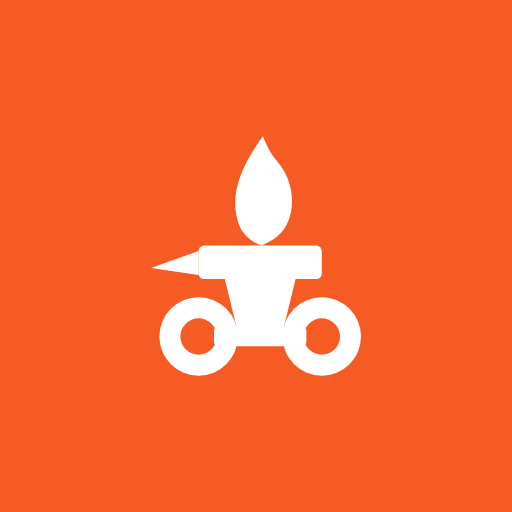
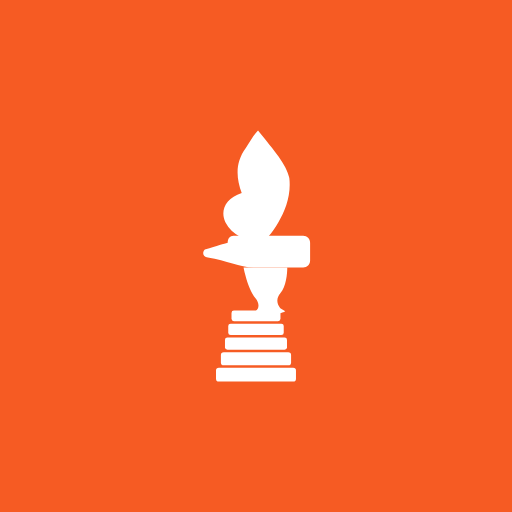
Revise brand mark: swap barbell plates for a weight stack, more organic flame
Follow-up to the anvil+flame mark: the barbell-plate base read as too
basic/clunky, so it's now a tapered gym weight stack instead (matches
the "gym" half of the motif more specifically than two round plates did).
Redrew the flame with an asymmetric concave "waist" on one side instead
of a plain teardrop, closer to how real flame icons get their flicker.
Also smoothed the anvil's horn/table/waist into continuous curved paths
instead of assembled rectangle/polygon primitives.

Claude-Session: https://claude.ai/code/session_014tx1dwrgZ2PwKeAUpb9Ap3

Changed region(s): [[0.2812, 0.25, 0.7188, 0.75]]

diff --git a/client/src/components/forge-mark.tsx b/client/src/components/forge-mark.tsx
@@ -1,47 +1,62 @@
-import { useId } from "react";
-
-/** Forge's brand glyph -- an anvil (forging/strength) topped with a flame,
- * standing on a barbell whose plates double as the anvil's feet (gym +
- * forge in one shape, instead of two motifs bolted together). Drop-in
+/** Forge's brand glyph -- a flame rising off an anvil, resting on a gym
+ * weight stack, so the forge and the gym read as one emblem stacked
+ * top-to-bottom rather than two motifs bolted together. Drop-in
  * replacement for the old plain Lucide `Flame` wherever it was used as the
  * actual logo mark (the colored badge next to the "Forge" wordmark) --
- * NOT for places Flame is used as a generic icon (streaks, nav items).
- * The plate centers are real masked-out holes, so they show whatever sits
- * behind the mark rather than needing to match a hardcoded background.
- * Mask ids are per-instance (useId) since a page can mount this more than
- * once at a time (e.g. landing.tsx's nav bar and footer both do). */
+ * NOT for places Flame is used as a generic icon (streaks, nav items). */
 export function ForgeMark({ className }: { className?: string }) {
-  const uid = useId();
-  const leftMask = `${uid}-plate-l`;
-  const rightMask = `${uid}-plate-r`;
   return (
-    <svg viewBox="50 43 400 400" xmlns="http://www.w3.org/2000/svg" className={className}>
-      <defs>
-        <mask id={leftMask} maskUnits="userSpaceOnUse" x="0" y="0" width="500" height="500">
-          <rect x="0" y="0" width="500" height="500" fill="#fff" />
-          <circle cx="168" cy="358" r="26" fill="#000" />
-        </mask>
-        <mask id={rightMask} maskUnits="userSpaceOnUse" x="0" y="0" width="500" height="500">
-          <rect x="0" y="0" width="500" height="500" fill="#fff" />
-          <circle cx="344" cy="358" r="26" fill="#000" />
-        </mask>
-      </defs>
+    <svg viewBox="161 55 190 400" xmlns="http://www.w3.org/2000/svg" className={className}>
       <g fill="currentColor">
-        <rect x="190" y="344" width="132" height="28" rx="6" />
-        <circle cx="168" cy="358" r="56" mask={`url(#${leftMask})`} />
-        <circle cx="344" cy="358" r="56" mask={`url(#${rightMask})`} />
-        <polygon points="205,274 307,274 288,352 224,352" />
-        <polygon points="168,236 168,270 100,260" />
-        <rect x="168" y="228" width="176" height="48" rx="8" />
-        <path
-          d="M260,72
-             C224,120 212,162 226,199
-             C232,214 246,224 258,228
-             C270,223 286,214 294,198
-             C308,170 302,130 278,105
-             C272,98 265,85 260,72
-             Z"
-        />
+        {/* weight stack */}
+        <g transform="translate(102.4,269) scale(0.6)">
+          <rect x="196" y="110" width="120" height="26" rx="6" />
+          <rect x="188" y="142" width="136" height="28" rx="6" />
+          <rect x="180" y="176" width="152" height="30" rx="6" />
+          <rect x="170" y="212" width="172" height="32" rx="7" />
+          <rect x="158" y="250" width="196" height="34" rx="7" />
+        </g>
+        {/* anvil */}
+        <g transform="translate(83,83.2) scale(0.73)">
+          <path
+            d="M180,208
+               C180,200 184,194 192,194
+               L332,194
+               C340,194 346,200 346,208
+               L346,244
+               C346,252 340,258 332,258
+               L232,258
+               C204,258 178,244 140,238
+               C130,236 128,228 134,222
+               C160,214 172,210 180,208
+               Z"
+          />
+          <path
+            d="M212,258
+               C212,258 220,300 236,320
+               C244,330 244,340 236,346
+               L226,352
+               C270,352 286,352 296,346
+               L286,340
+               C278,330 278,320 286,310
+               C298,296 300,270 300,258
+               Z"
+          />
+        </g>
+        {/* flame */}
+        <g transform="translate(3,30)">
+          <path
+            d="M256,40
+               C280,70 298,90 302,110
+               C305,135 296,158 286,175
+               C276,192 266,204 256,208
+               C246,204 218,196 208,175
+               C200,158 208,140 232,132
+               C224,110 222,88 238,66
+               C244,56 250,46 256,40
+               Z"
+          />
+        </g>
       </g>
     </svg>
   );
